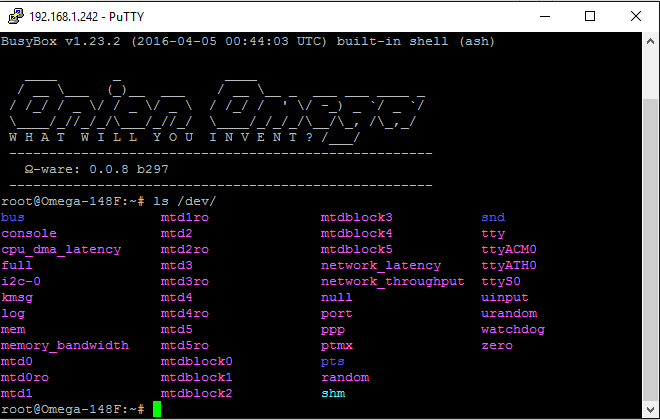
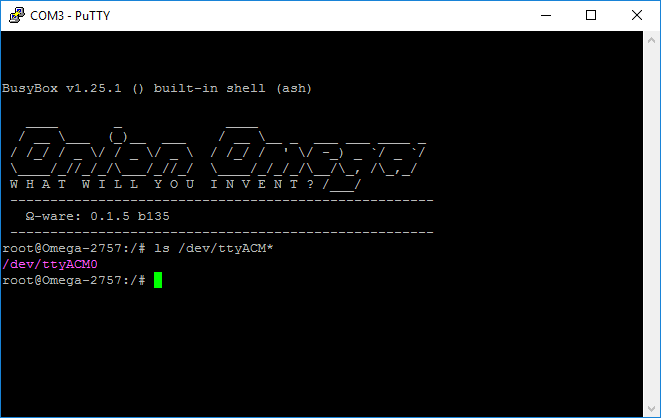
added more troubleshooting info as well as cleaning sentence structure

diff --git a/Omega2/Documentation/Doing-Stuff/Expansions/Using-the-GPS-Expansion.md b/Omega2/Documentation/Doing-Stuff/Expansions/Using-the-GPS-Expansion.md
@@ -16,24 +16,27 @@ The GPS expansion from Onion features a ublox neo GPS module, which allows seaml
 The device driver will already be installed and Linux should recognize the device automatically. To double check, run the following command.
 
 ```
-ls /dev/
+ls /dev/ttyACM*
 ```
 
 ![checking for device](https://raw.githubusercontent.com/OnionIoT/Onion-Docs/master/Omega2/Documentation/Doing-Stuff/img/using-gps-expansion-1-ls.png)
 
-You should see a device called "ttyACM0", this is our GPS expansion.
+You should see a device called "ttyACM0"; this is our GPS expansion.
 
-At this point you can read the raw output of the gps using the following command.
+At this point you can read the raw output of the GPS using `cat`:
 
 ```
 cat /dev/ttyACM0
 ```
-This will print out the raw NMEA output.
+
+And you'll see something that looks like the following:
 
 ![nmea output](https://raw.githubusercontent.com/OnionIoT/Onion-Docs/master/Omega2/Documentation/Doing-Stuff/img/using-gps-expansion-2-nmea.png)
 
+This is the NMEA output, and it's quite hard to read. Luckily we've got a utility that will translate this data into useful information.
 
-### Using `ogps` for Cleaner Output
+
+### Reading NMEA Data Using `ogps`
 
 You can also use `ogps` to access relevant data offered up by the GPS via `ubus` calls. To install `ogps` enter the following commands.
 
@@ -46,23 +49,41 @@ opkg install opgs
 
 ![opkg installation](https://raw.githubusercontent.com/OnionIoT/Onion-Docs/master/Omega2/Documentation/Doing-Stuff/img/using-gps-expansion-3-opkg-install.png)
 
-Now that it is installed you can access the information through ubus. To make sure the gps service has initialized, run the command.
+Now that it is installed you can access the information through `ubus`. To make sure the `gps` service has initialized, run the following command, which will list all the available `ubus` services:
 
 ```
 ubus list
 ```
-You should see gps listed.
+You should see the `gps` service listed:
 
 ![ubus list](https://raw.githubusercontent.com/OnionIoT/Onion-Docs/master/Omega2/Documentation/Doing-Stuff/img/using-gps-expansion-4-ubus-list.png)
 
 
+If you don't see `gps` listed, you'll need to restart your `rpcd` service in order to refresh the list:
+
+```
+/etc/init.d/rpcd restart
+```
+
+If this doesn't work try reinstalling the `ogps` package using
+```
+opkg remove ogps
+```
+```
+opkg update
+```
+```
+opkg install ogps
+```
+
 ### Usage
-Make sure your GPS is connected! To access the data simply run the command.
+
+First, make sure your GPS Expansion is connected! Then, to access the data you'll need to `call` the correct service with the following command:
 
 ```
 ubus call gps info
 ```
-If the GPS is not locked, the command will return `signal=false`. In this case you may need to give the GPS more time to lock onto a satellite or you will need to move to a more open area where the gps can see more satellites.
+If the GPS is not locked, the command will return `signal=false`. In this case you may need to give the GPS more time to lock onto a satellite, so try it again after 10 seconds. If this still doesn't work you will need to move to a more open area where the GPS Expansion can see more satellites.
 
 >You may need to go outside in order to lock the GPS signal.
 
